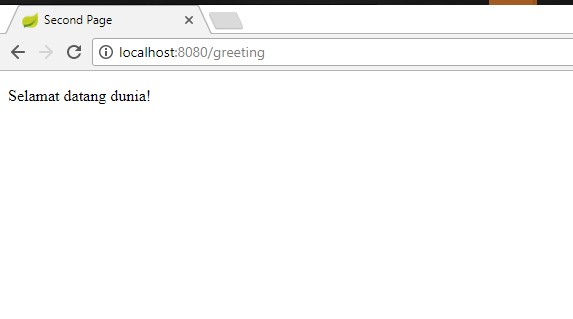
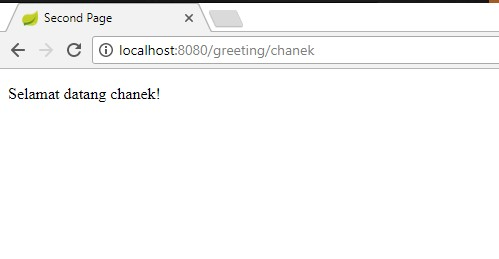
Tutorial 2

Changed region(s): [[0.0, 0.0, 1.0, 0.4015]]

diff --git a/tutorial-2/src/main/java/com/example/demo/controller/PageController.java b/tutorial-2/src/main/java/com/example/demo/controller/PageController.java
@@ -15,7 +15,13 @@ public class PageController {
 	public String index (){
 		return "hello";
 	}
-
+	
+	@RequestMapping ( "/greeting")
+	public String greeting ( @RequestParam ( value = "name" , required = false, defaultValue = "dunia" ) String name , Model model){
+		model . addAttribute ( "name" , name );
+		return "greeting";
+	}
+	
 	@RequestMapping ( value = { "/greeting" , "greeting/{name}" })
 	public String greetingPath ( @PathVariable Optional < String > name , Model model ) {
 		if ( name . isPresent ()) {
